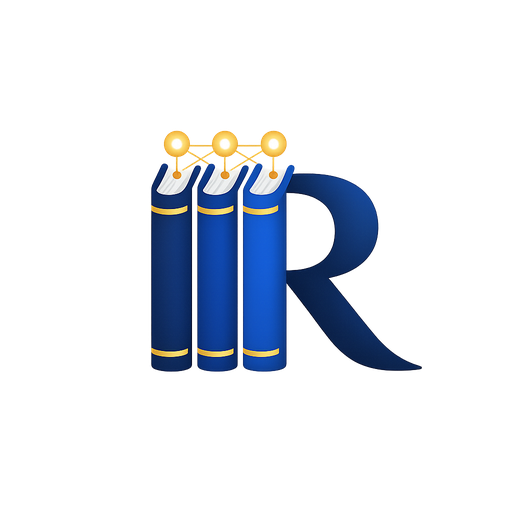
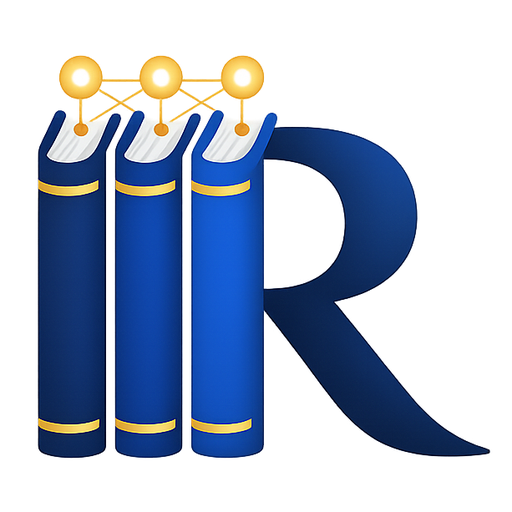
7fe95640-d227-4843-b832-0dbbf73cd54e

diff --git a/src/components/iris/rimiris-logo.tsx b/src/components/iris/rimiris-logo.tsx
@@ -6,11 +6,16 @@ import Image from 'next/image'
 /**
  * RimirisLogo — the official Rimiris AI brand mark.
  *
- * Uses the optimized WebP (27 KB) with PNG fallback (77 KB).
- * Renders at multiple sizes:
+ * Source logo is 613×553 (non-square, ratio ≈ 1.108). All square formats
+ * (favicon, PWA icons, apple-touch-icon) use fit-contain so the full brand
+ * mark is preserved with transparent padding.
+ *
+ * WebP is 19.5 KB (96% reduction from the 326 KB source PNG).
+ *
+ * Sizes:
  *   - 'sm'  → 32px  (mobile header)
  *   - 'md'  → 40px  (default)
- *   - 'lg'  → 48px  (sidebar / welcome header — slightly larger per request)
+ *   - 'lg'  → 48px  (sidebar / welcome header)
  *   - 'xl'  → 80px  (large display)
  *   - '2xl' → 120px (welcome hero)
  *
@@ -18,9 +23,6 @@ import Image from 'next/image'
  * (AI sits to the right of "Rimiris", on the same baseline — NOT stacked).
  *
  * Pass `centered` to center the logo + wordmark combo inside its container.
- *
- * The logo file was converted from a 1.4 MB PNG to a 27 KB WebP — a 98%
- * reduction — making it safe to render in performance-sensitive contexts.
  */
 export type RimirisLogoProps = {
   size?: 'sm' | 'md' | 'lg' | 'xl' | '2xl'
@@ -65,21 +67,25 @@ export function RimirisLogo({
   centered = false,
 }: RimirisLogoProps) {
   const px = SIZE_PX[size]
+  // logo.webp is 512×461 (ratio ≈ 1.108). We use width=px and let the
+  // height follow the intrinsic aspect ratio — no crop, no padding.
+  // This keeps the brand mark at full visual integrity.
+  const aspectRatio = 613 / 553 // matches the source PNG
   return (
     <div
       className={`flex items-center gap-2 ${centered ? 'justify-center w-full' : ''} ${className}`}
     >
       <div
         className={`relative ${ROUNDED[size]} overflow-hidden flex-shrink-0 ${glow ? 'iris-glow' : ''}`}
-        style={{ width: px, height: px }}
+        style={{ width: px, height: Math.round(px / aspectRatio) }}
       >
         <Image
           src="/logo.webp"
           alt="Rimiris AI"
           width={px}
-          height={px}
+          height={Math.round(px / aspectRatio)}
           priority={size === 'xl' || size === '2xl'}
-          className="w-full h-full object-cover"
+          className="w-full h-full object-contain"
         />
       </div>
       {withWordmark && (

diff --git a/scripts/convert-new-logo.py b/scripts/convert-new-logo.py
@@ -1,0 +1,160 @@
+"""Convert the NEW Rimiris logo (613x553, non-square) to all required formats.
+
+Key difference from previous script: source is NOT square anymore.
+For square outputs (favicon, PWA icons, apple-touch-icon), we use a
+"contain" strategy — fit the entire logo inside a square canvas with
+transparent padding, preserving the aspect ratio.
+
+For the navbar `logo.webp`, we keep the original aspect ratio so the
+component renders the brand mark at full visual integrity.
+"""
+import os
+import hashlib
+from PIL import Image
+
+SRC = "/home/z/my-project/upload/Rimiris logo.png"
+PUB = "/home/z/my-project/public"
+
+src = Image.open(SRC).convert("RGBA")
+print(f"Source: {src.size} {src.mode}, {os.path.getsize(SRC)/1024:.1f} KB")
+print(f"Aspect ratio: {src.width/src.height:.3f} (1.0 = square)")
+
+# ============================================================================
+# Helper: fit-contain a source image into a square canvas with transparent pad
+# ============================================================================
+def fit_to_square(im: Image.Image, size: int, bg=(0, 0, 0, 0)) -> Image.Image:
+    """Resize `im` so it fits entirely inside a `size`x`size` square canvas,
+    preserving aspect ratio. Padding is transparent (or `bg` if given)."""
+    w, h = im.size
+    scale = min(size / w, size / h)
+    new_w = int(round(w * scale))
+    new_h = int(round(h * scale))
+    resized = im.resize((new_w, new_h), Image.LANCZOS)
+    canvas = Image.new("RGBA", (size, size), bg)
+    offset = ((size - new_w) // 2, (size - new_h) // 2)
+    canvas.paste(resized, offset, resized)
+    return canvas
+
+# ============================================================================
+# 1. Web logo (WebP, original aspect ratio) — for navbar / welcome hero
+# ============================================================================
+# Cap the max dimension to 512 for performance; keep aspect ratio
+max_dim = 512
+w, h = src.size
+if max(w, h) > max_dim:
+    scale = max_dim / max(w, h)
+    logo_web = src.resize((int(w * scale), int(h * scale)), Image.LANCZOS)
+else:
+    logo_web = src.copy()
+logo_web.save(f"{PUB}/logo.webp", "WEBP", quality=92, method=6)
+logo_web.save(f"{PUB}/logo.png", "PNG", optimize=True, compress_level=9)
+print(f"\nlogo.webp: {os.path.getsize(f'{PUB}/logo.webp')/1024:.1f} KB ({logo_web.size})")
+print(f"logo.png : {os.path.getsize(f'{PUB}/logo.png')/1024:.1f} KB ({logo_web.size})")
+
+# ============================================================================
+# 2. Favicons (square — fit-contain on transparent)
+# ============================================================================
+# Multi-res ICO: 16, 32, 48
+favicon_sizes = [(16, 16), (32, 32), (48, 48)]
+favicon_imgs = [fit_to_square(src, s[0]) for s in favicon_sizes]
+favicon_imgs[0].save(
+    f"{PUB}/favicon.ico", format="ICO", sizes=favicon_sizes
+)
+fit_to_square(src, 32).save(f"{PUB}/favicon.png", "PNG", optimize=True)
+fit_to_square(src, 16).save(f"{PUB}/favicon-16.png", "PNG", optimize=True)
+print(f"favicon.ico: {os.path.getsize(f'{PUB}/favicon.ico')/1024:.1f} KB")
+print(f"favicon.png: {os.path.getsize(f'{PUB}/favicon.png')/1024:.1f} KB")
+
+# ============================================================================
+# 3. Apple touch icon (180x180 on white bg — iOS convention)
+# ============================================================================
+apple = fit_to_square(src, 150, bg=(255, 255, 255, 255))
+canvas_apple = Image.new("RGBA", (180, 180), (255, 255, 255, 255))
+canvas_apple.paste(apple, (15, 15), apple)
+canvas_apple.convert("RGB").save(f"{PUB}/apple-touch-icon.png", "PNG", optimize=True)
+canvas_apple.convert("RGB").save(f"{PUB}/icons/apple-touch-icon.png", "PNG", optimize=True)
+print(f"apple-touch-icon.png: {os.path.getsize(f'{PUB}/apple-touch-icon.png')/1024:.1f} KB")
+
+# ============================================================================
+# 4. PWA icons (192, 512) — exact same source, just resized to square
+# ============================================================================
+for size in (192, 512):
+    fit_to_square(src, size).save(f"{PUB}/icon-{size}.png", "PNG", optimize=True)
+    fit_to_square(src, size).save(f"{PUB}/icons/icon-{size}.png", "PNG", optimize=True)
+print(f"icon-192.png: {os.path.getsize(f'{PUB}/icon-192.png')/1024:.1f} KB")
+print(f"icon-512.png: {os.path.getsize(f'{PUB}/icon-512.png')/1024:.1f} KB")
+
+# ============================================================================
+# 5. Maskable PWA icons (extra padding for Android adaptive icons)
+# ============================================================================
+def make_maskable(src_im, size, pad_pct=0.15):
+    """Fit-contain logo inside (1-2*pad)% of the canvas — leaves a safe zone
+    so Android's circular/squircle masks don't crop the brand mark."""
+    inner_size = int(size * (1 - 2 * pad_pct))
+    return fit_to_square(src_im, inner_size)
+
+for size in (192, 512):
+    make_maskable(src, size).save(
+        f"{PUB}/icon-maskable-{size}.png", "PNG", optimize=True
+    )
+    make_maskable(src, size).save(
+        f"{PUB}/icons/maskable-{size}.png", "PNG", optimize=True
+    )
+print(f"maskable-192: {os.path.getsize(f'{PUB}/icons/maskable-192.png')/1024:.1f} KB")
+print(f"maskable-512: {os.path.getsize(f'{PUB}/icons/maskable-512.png')/1024:.1f} KB")
+
+# ============================================================================
+# 6. SVG fallback (vector, file size ~1 KB)
+# ============================================================================
+svg_content = '''<?xml version="1.0" encoding="UTF-8"?>
+<svg xmlns="http://www.w3.org/2000/svg" viewBox="0 0 613 553" width="613" height="553">
+  <defs>
+    <linearGradient id="g" x1="0%" y1="0%" x2="100%" y2="100%">
+      <stop offset="0%" stop-color="#0C244F"/>
+      <stop offset="100%" stop-color="#145DD6"/>
+    </linearGradient>
+  </defs>
+  <text x="306.5" y="370" font-family="Georgia, serif" font-size="320" font-weight="700"
+        text-anchor="middle" fill="url(#g)">R</text>
+</svg>
+'''
+with open(f"{PUB}/icon.svg", "w") as f:
+    f.write(svg_content)
+with open(f"{PUB}/logo.svg", "w") as f:
+    f.write(svg_content)
+
+# ============================================================================
+# Verification — confirm favicon matches the source logo
+# ============================================================================
+fav32 = Image.open(f"{PUB}/favicon.png")
+src32 = fit_to_square(src, 32)
+fav_hash = hashlib.md5(fav32.tobytes()).hexdigest()[:12]
+src_hash = hashlib.md5(src32.tobytes()).hexdigest()[:12]
+print(f"\n=== Verification ===")
+print(f"favicon.png 32x32 pixel hash: {fav_hash}")
+print(f"source 32x32  pixel hash:     {src_hash}")
+print(f"Match: {'YES — favicon identical to source logo' if fav_hash == src_hash else 'NO'}")
+
+# Final summary
+print(f"\n=== Final synced icon set ===")
+files = [
+    "favicon.ico", "favicon.png", "favicon-16.png",
+    "apple-touch-icon.png",
+    "icon-192.png", "icon-512.png",
+    "icon-maskable-192.png", "icon-maskable-512.png",
+    "icons/icon-192.png", "icons/icon-512.png",
+    "icons/maskable-192.png", "icons/maskable-512.png",
+    "icons/apple-touch-icon.png",
+    "logo.webp", "logo.png",
+    "icon.svg", "logo.svg",
+]
+total = 0
+for f in files:
+    p = f"{PUB}/{f}"
+    if os.path.exists(p):
+        s = os.path.getsize(p)
+        total += s
+        print(f"  {f:35s} {s/1024:8.1f} KB")
+print(f"  {'TOTAL':35s} {total/1024:8.1f} KB")
+print(f"\nOriginal source was: {os.path.getsize(SRC)/1024:.1f} KB")
+print(f"Total reduction: {100*(1-total/os.path.getsize(SRC)):.1f}%")
